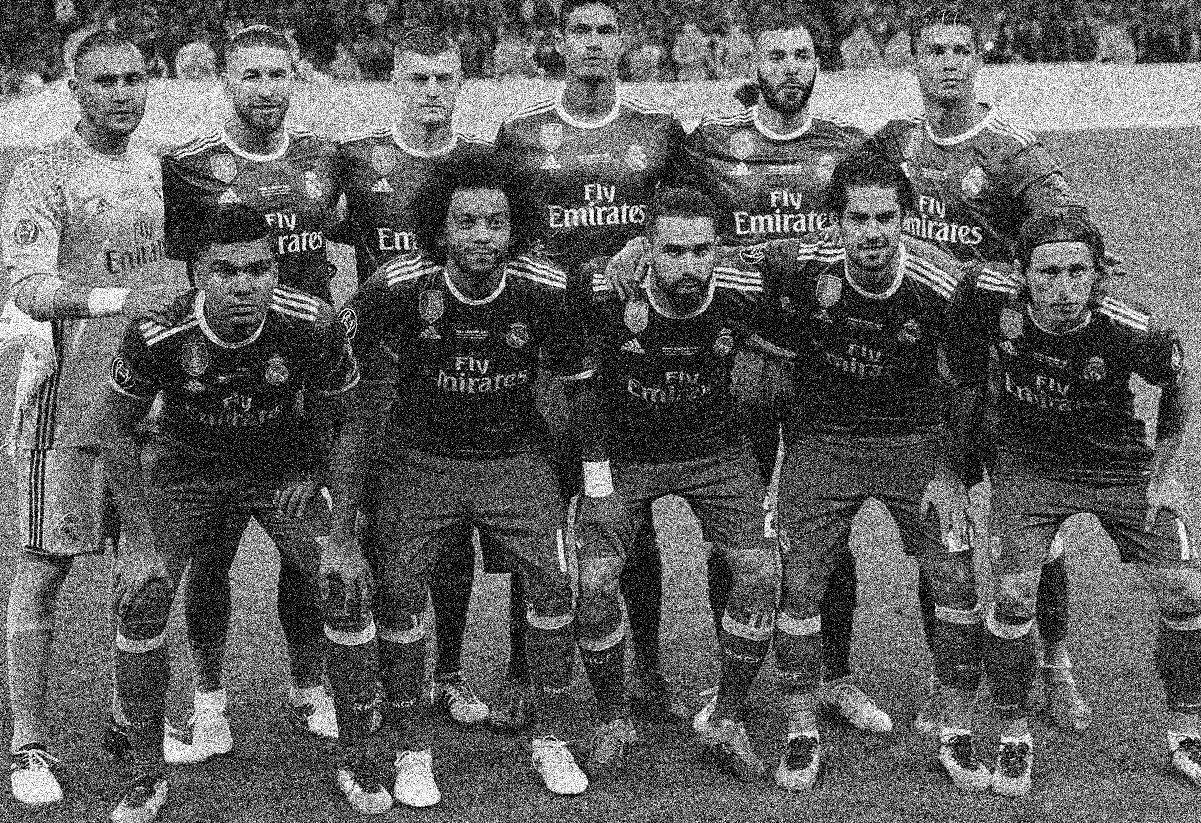
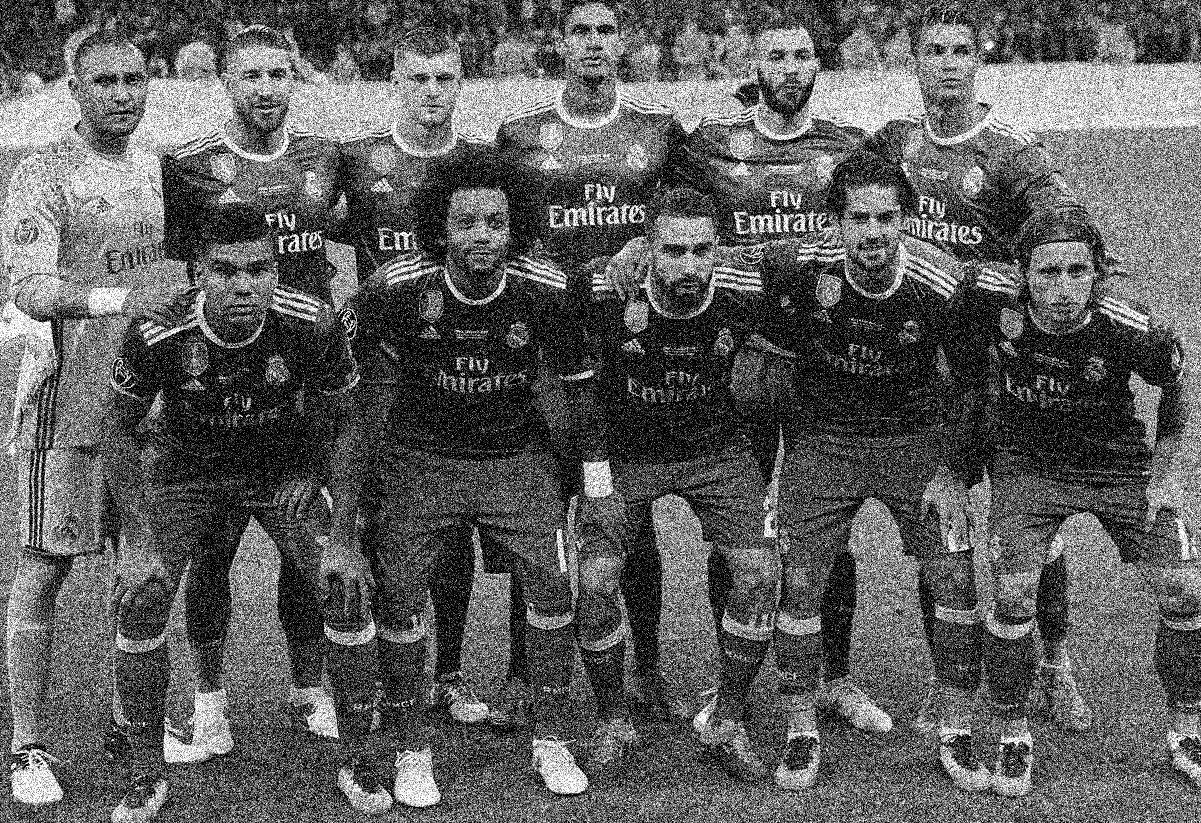
menambah filter median untuk setiap noise

diff --git a/main.py b/main.py
@@ -1,16 +1,9 @@
 from image_proccessing import ImageProcessing
 from criteria import MSE,PSNR,SNR,SSIM
+
 img = ImageProcessing("./img/madrid-fullhd.jpg")
 img.grayscale()
 img.snp_noise()
-img.wiener_filter()
-# img.median_filter()
-img.save("./img/snp-image.jpg")
+img.median_filter()
 img.show()
-exit()
-noised_img_value = noised_img.get_matrix_img
-natural_img_value = natural_img.get_matrix_img
-print("Mean Squared Error : {}".format(MSE(natural_img_value, noised_img_value)))
-print("PSNR : {}".format(PSNR(natural_img_value, noised_img_value)))
-print("SNR : {}".format(SNR(natural_img_value, noised_img_value)))
-print("SSIM : {}".format(SSIM(natural_img_value, noised_img_value)))
+img.save("./img/median-snp.jpg")

diff --git a/detect_face.py b/detect_face.py
@@ -10,17 +10,18 @@ def face_detection(frame) :
   return faces
 
 def drawer_box(frame) :  
-  for x,y,w,h in face_detection(frame) : 
+  for x,y,w,h in face_detection(frame) :
     cv.rectangle(frame,(x,y),(x+w,y+h),(255,0,0),4)
 
 def close_window() :
   camera.release()
   cv.destroyAllWindows()
   exit()
-def main() : 
+def main() :
   try : 
-    if os.path.exists(image_location := "./img/snp-image.jpg") : 
-      frame = cv.imread(image_location)
+    if os.path.exists(image_location := "./img/median-snp.jpg") : 
+      frame = cv.imread(image_location) 
+      frame = cv.cvtColor(frame,cv.COLOR_RGB2BGR)
       drawer_box(frame)
       plt.imshow(frame,cmap="gray")
       plt.axis('off')

diff --git a/criteria.py b/criteria.py
@@ -19,3 +19,13 @@ def SSIM(original,predict):
   max_val = max(original.max(),predict.max())
   min_val = min(original.min(),predict.min())
   return structural_similarity(original,predict,data_range=max_val-min_val)
+
+if __name__ == "__main__":
+  from image_proccessing import ImageProcessing
+  gray_img  = ImageProcessing("./gray_img.jpg")
+  gauss_img = ImageProcessing("./img/median-snp.jpg")
+  gauss_img.show()
+  print("MSE : {:.2f}\n".format(MSE(gray_img.img,gauss_img.img)))
+  print("PSNR : {:.2f}\n".format(PSNR(gray_img.img,gauss_img.img)))
+  print("SNR : {:.2f}\n".format(SNR(gray_img.img,gauss_img.img)))
+  print("SSIM : {:.2f}\n".format(SSIM(gray_img.img,gauss_img.img)))

diff --git a/image_proccessing.py b/image_proccessing.py
@@ -12,6 +12,15 @@ class ImageProcessing :
     self.__k=3
     self.__psf = np.ones((self.__k,self.__k))/(self.__k**2)
   
+  def shows(*objs) : 
+    k=1
+    for obj in objs : 
+      plt.subplot(1,len(objs),k)
+      k+=1
+      plt.imshow(obj.img,cmap="gray")
+      plt.axis('off')
+    plt.show()
+  
   def show(self) :
     plt.imshow(self.img,cmap="gray")
     plt.axis('off')
@@ -46,7 +55,7 @@ class ImageProcessing :
   def wiener_filter(self) :
     self.img = restoration.wiener(self.img,psf=self.__psf,balance=0.5)
   def median_filter(self) : 
-    return median(self.img)
+    self.img= median(self.img)
   @property
   def get_matrix_img(self) : 
     return self.img
